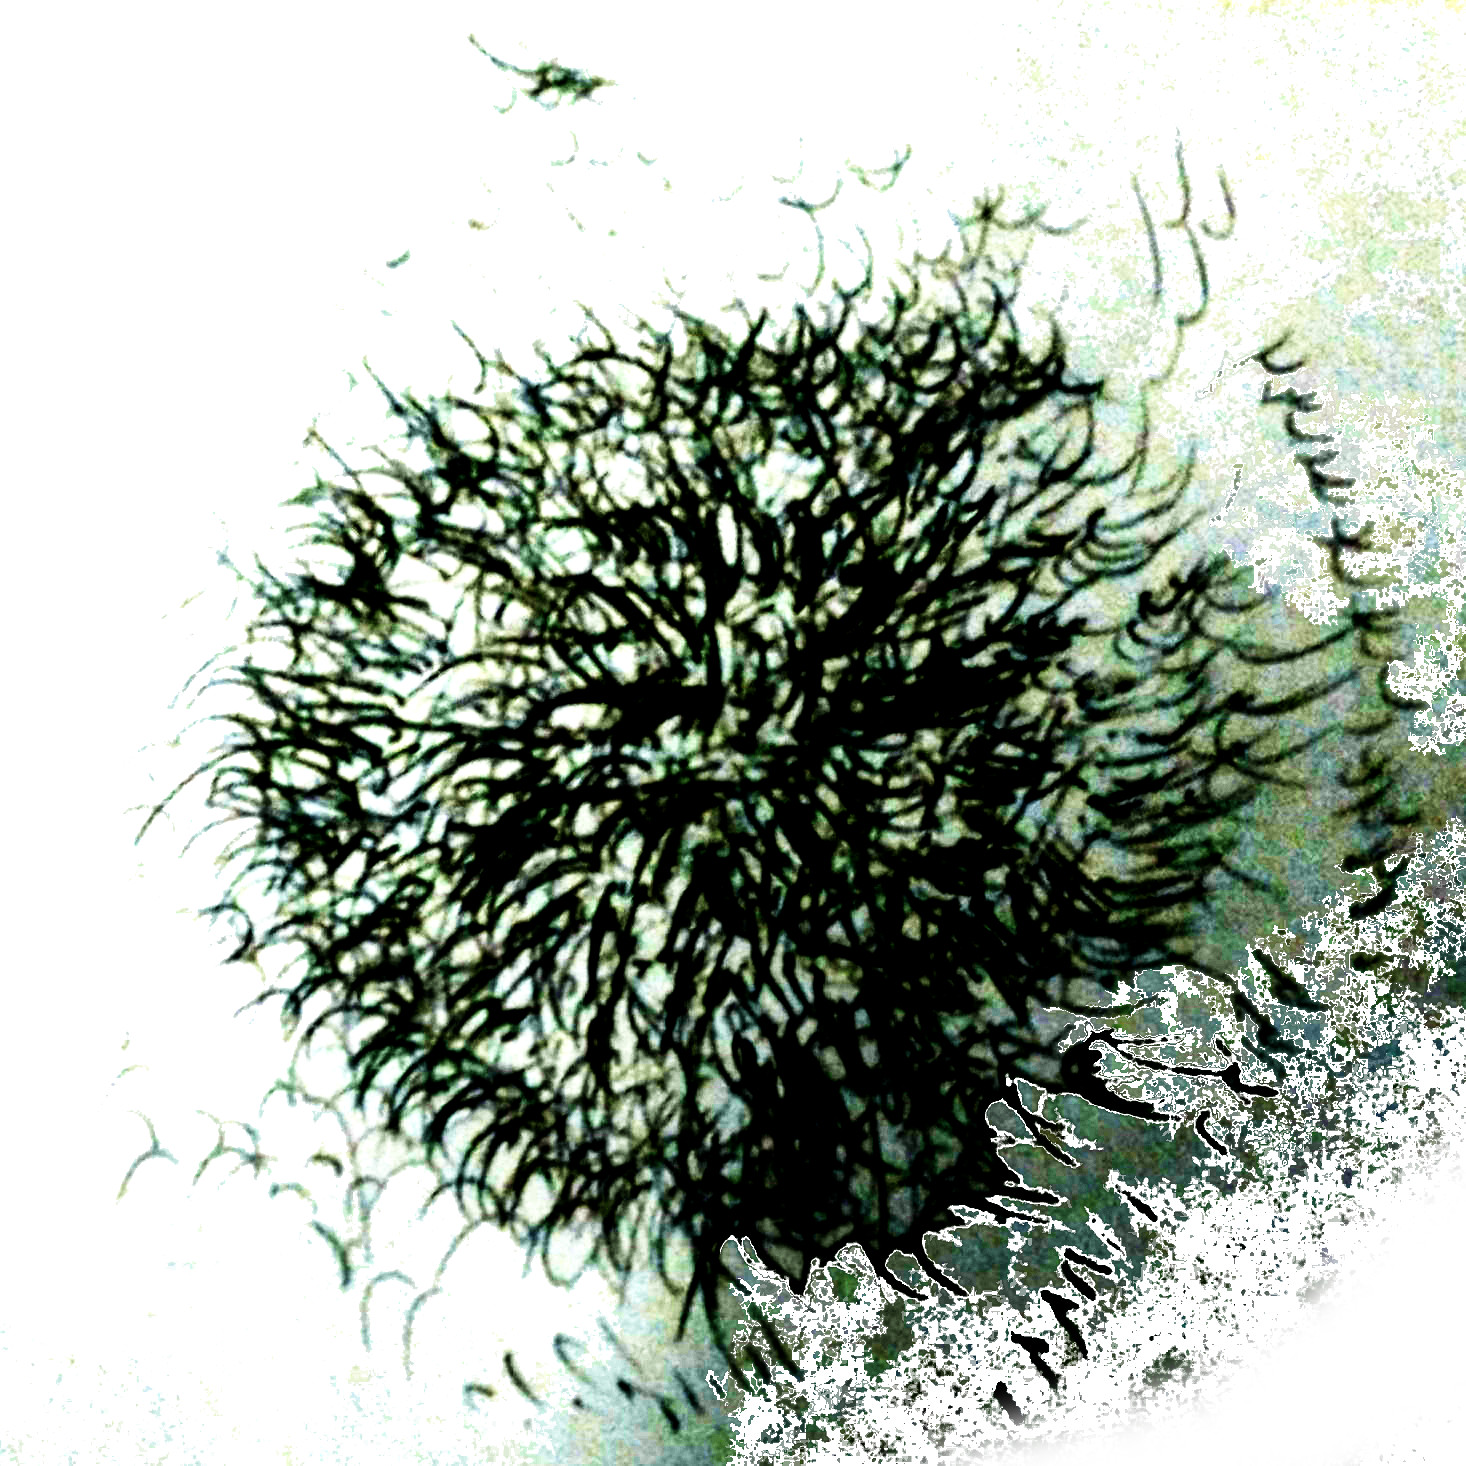
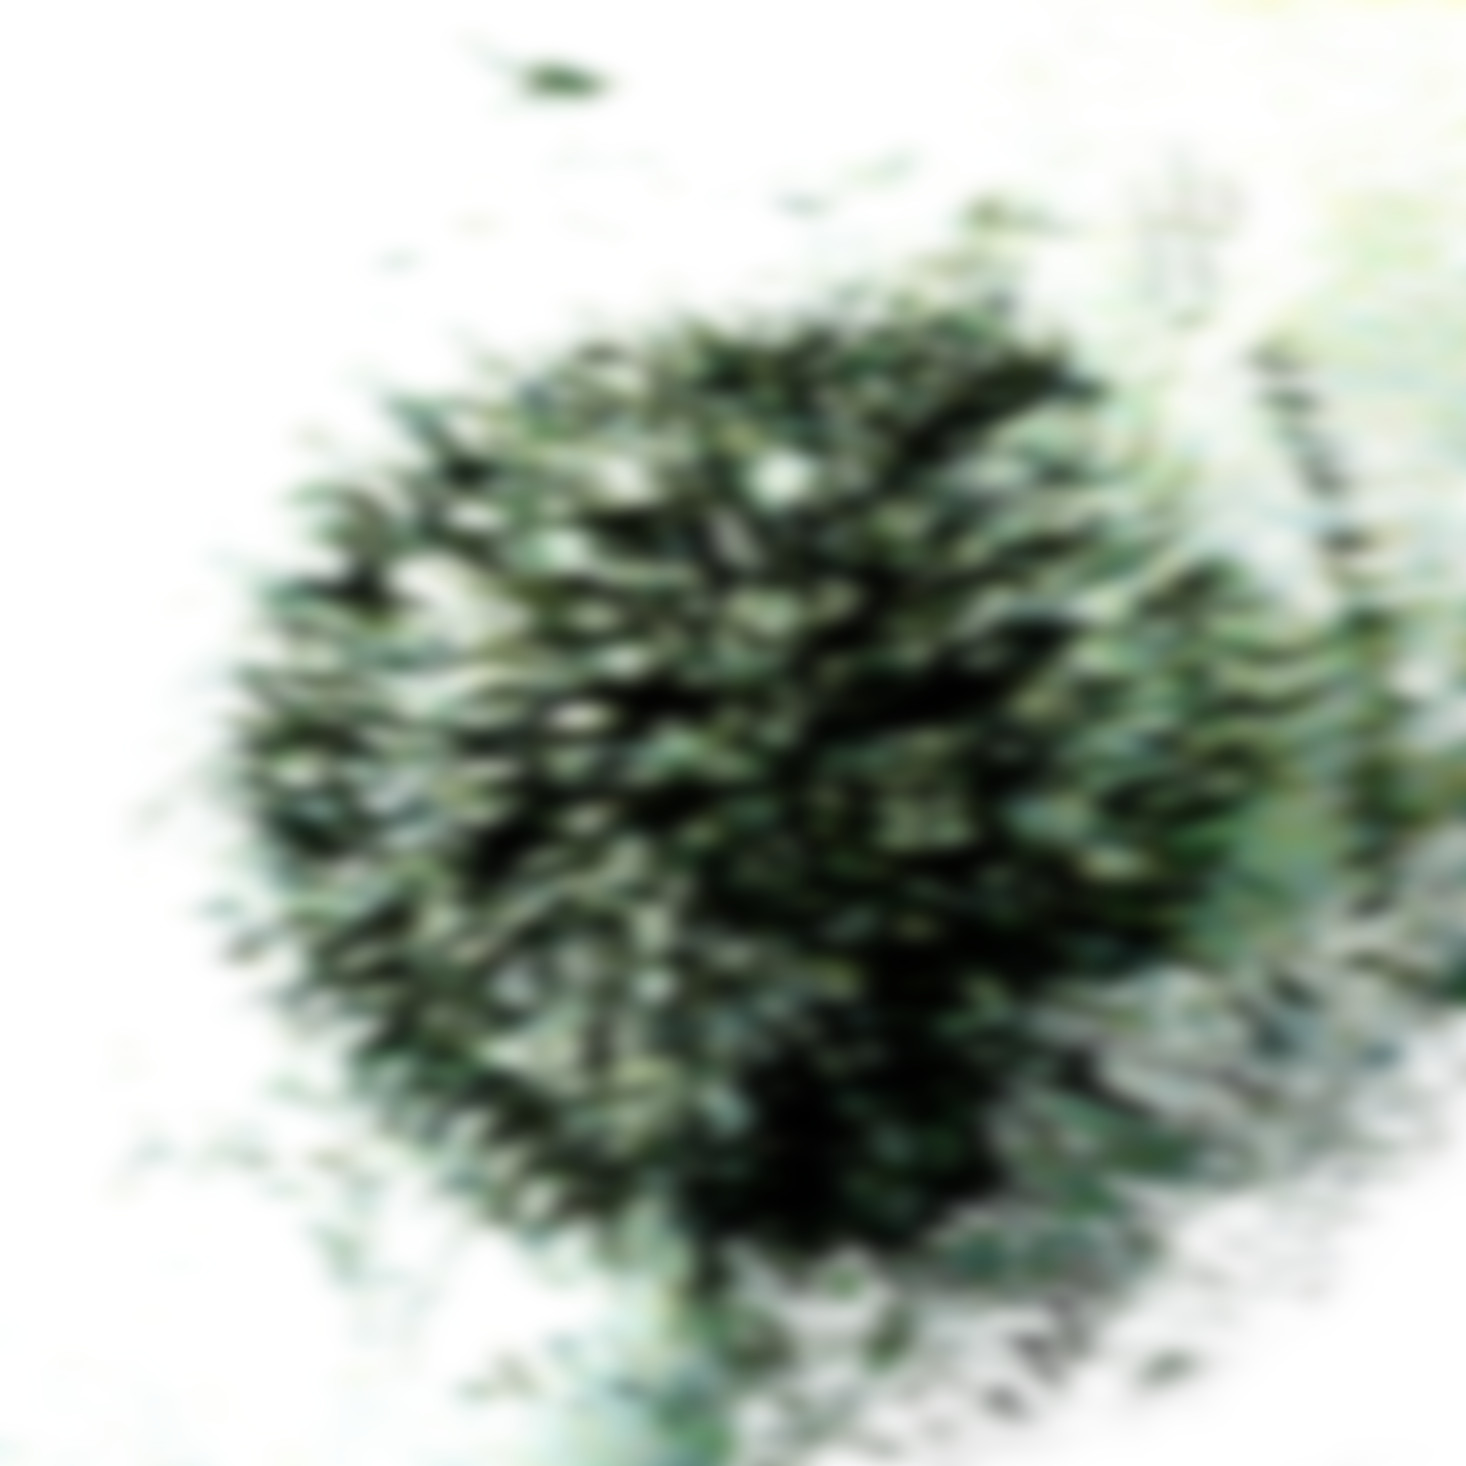
[App][PH] Zlepseni terenu

diff --git a/app/graphic/terrain.php b/app/graphic/terrain.php
@@ -82,7 +82,7 @@ if(false){
 
 
 $cachefile=files\cacheFile(array(1,$ease,$seed,$terrain,$size),'png','terrain');
-if(!file_exists($cachefile) or isset($_GET['notmp'])/* or 1*/) {
+if(!file_exists($cachefile) or isset($_GET['notmp'])/** or 1/**/) {
     //_________________________________________
 
     $source = imagecreatefrompng($file);
@@ -98,9 +98,22 @@ if(!file_exists($cachefile) or isset($_GET['notmp'])/* or 1*/) {
             $shape = imagecreatefromjpeg($fileshape_jpg);
 
 
-        $degrees=rand(0,360);
         $white = imagecolorallocate($shape,255, 255, 255);
-        $shape = imagerotate($shape, $degrees,$white);
+        $transparent = imagecolorallocatealpha($shape,255, 255, 255,127);
+
+
+        //imagecolortransparent($shape,$white);
+
+
+        $shapeA = imagerotate($shape, rand(0,360),$white);
+        $shapeB = imagerotate($shape, rand(0,360),$white);
+
+        //$shape = imagecreate(imagesx($shape),imagesy($shape));//todo [PH] lepe
+
+        imagealphablending($shape,true);
+
+        imagecopyresized($shape,$shapeB,0,imagesy($shape)*(1/3),0,0,imagesx($shape),imagesy($shape)*(2/3),imagesx($shape),imagesy($shape));
+        imagecopyresized($shape,$shapeA,0,imagesy($shape)*(0/2),0,0,imagesx($shape),imagesy($shape)*(2/3),imagesx($shape),imagesy($shape));
 
 
         /*$color = imagecolorat($shape, 5, 5);
@@ -109,6 +122,7 @@ if(!file_exists($cachefile) or isset($_GET['notmp'])/* or 1*/) {
         $b = $color & 0xFF;
         echo($r.','.$g.','.$b);
         exit;*/
+
 
 
         /*header('Content-Type: image/png');
